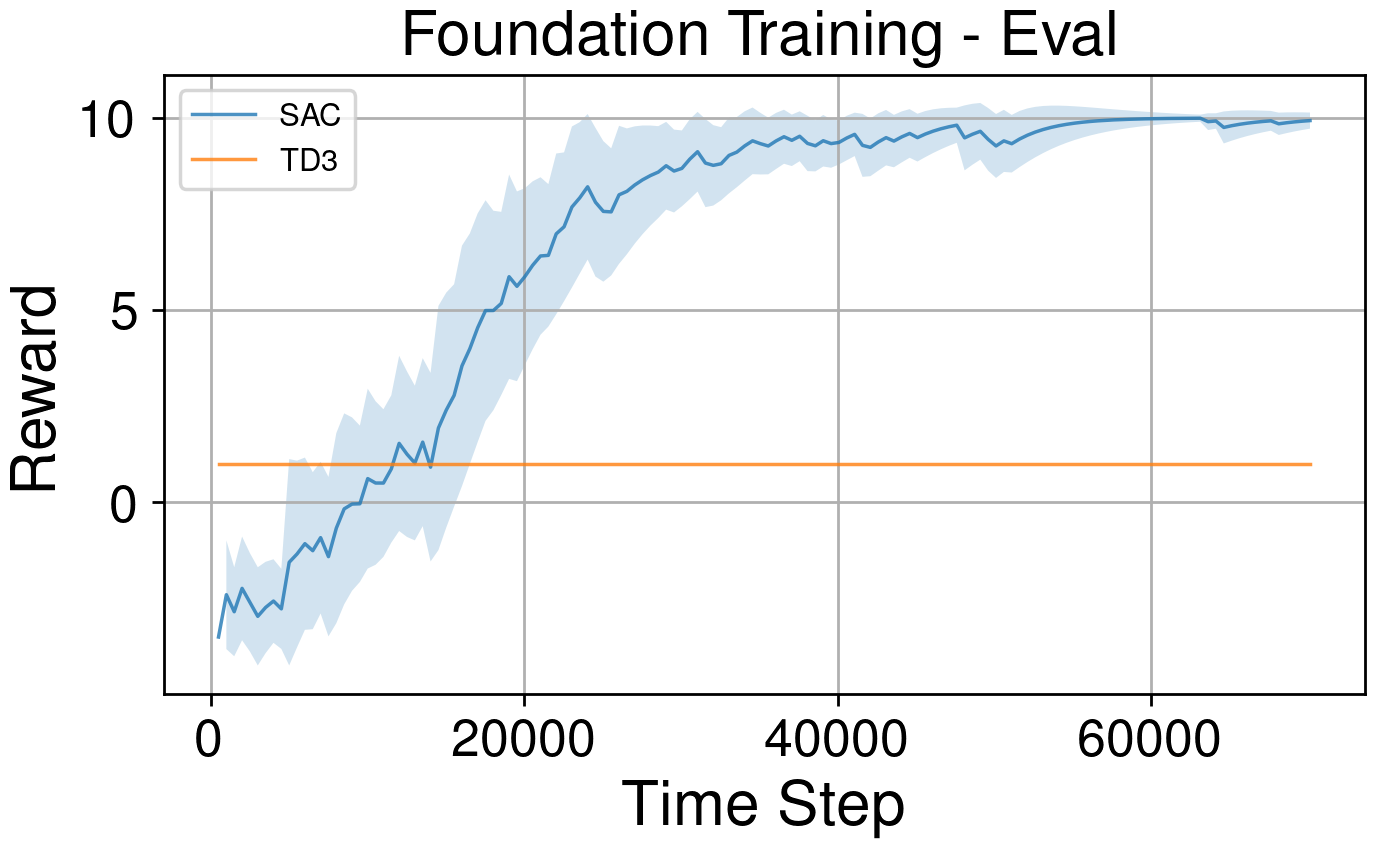
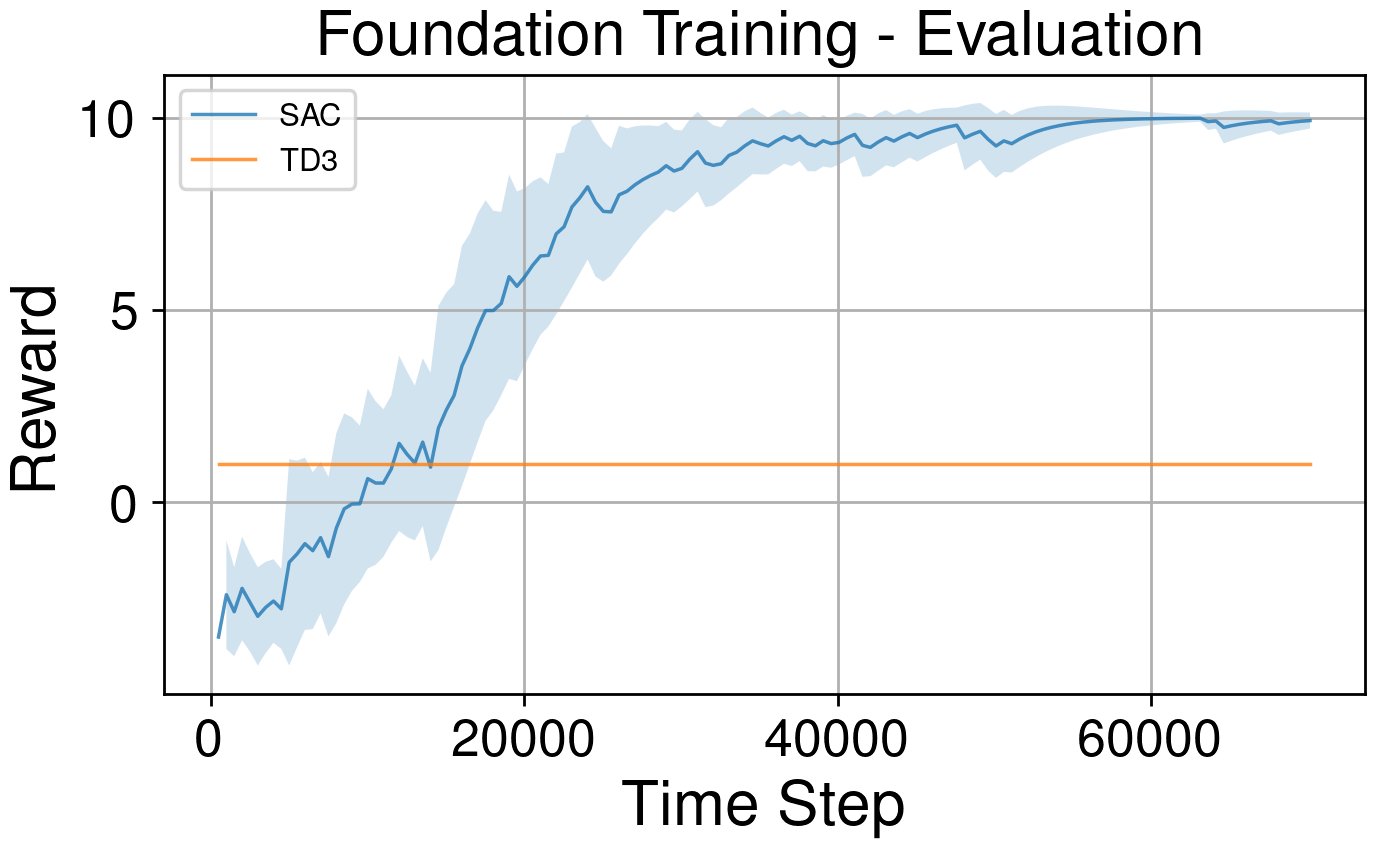
fixed plots labels

Changed region(s): [[0.2138, 0.0, 0.8858, 0.0919]]

diff --git a/report/plots/selfplay_plots.py b/report/plots/selfplay_plots.py
@@ -19,60 +19,41 @@ plt.rcParams.update(
 )
 
 
-def plot_data(ax, datasets, subplot_title, x_label, y_label, window):
-    for df, label in datasets:
-        df = df.sort_values(by="Step")
-        steps = df["Step"]
-        values = df["Value"]
+def plot_data(ax, df, label, window):
+    """Plot single dataset with optional EWM smoothing and band."""
+    df = df.sort_values(by="Step")
+    steps = df["Step"]
+    values = df["Value"]
 
-        if window > 1:
-            moving_avg = values.ewm(span=window).mean()
-            std_ewm = values.ewm(span=window).std()
-            lower_bound = moving_avg - std_ewm
-            upper_bound = moving_avg + std_ewm
-        else:
-            moving_avg = values
-            lower_bound = values
-            upper_bound = values
+    if window > 1:
+        moving_avg = values.ewm(span=window).mean()
+        std_ewm = values.ewm(span=window).std()
+        lower_bound = moving_avg - std_ewm
+        upper_bound = moving_avg + std_ewm
+        ax.fill_between(steps, lower_bound, upper_bound, alpha=0.2)
+    else:
+        moving_avg = values
 
-        ax.plot(steps, moving_avg, label=label, alpha=0.8, linewidth=1)
-        if window > 1:
-            ax.fill_between(steps, lower_bound, upper_bound, alpha=0.2)
+    ax.plot(steps, moving_avg, label=label, alpha=0.8, linewidth=1)
 
-    ax.set_title(subplot_title, fontsize=plt.rcParams["axes.titlesize"])
+
+def plot_all_data(sac_df, td3_df, title, x_label, y_label, output_file, window=10):
+    """Plot SAC and TD3 data in one figure."""
+    fig, ax = plt.subplots()
+
+    # Plot SAC
+    plot_data(ax, sac_df, "SAC", window)
+    # Plot TD3
+    plot_data(ax, td3_df, "TD3", window)
+
+    ax.set_title(title, fontsize=plt.rcParams["axes.titlesize"])
     ax.set_xlabel(x_label, fontsize=plt.rcParams["axes.labelsize"])
     ax.set_ylabel(y_label, fontsize=plt.rcParams["axes.labelsize"])
     ax.grid(True)
     ax.legend()
 
-
-def plot_all_data(
-    sac_eval,
-    sac_train,
-    td3_eval,
-    td3_train,
-    title,
-    x_label,
-    y_label,
-    output_file,
-    window=10,
-):
-    train_datasets = [(sac_train, "SAC Train"), (td3_train, "TD3 Train")]
-    eval_datasets = [(sac_eval, "SAC Eval"), (td3_eval, "TD3 Eval")]
-
-    # Plot training data in a separate figure
-    fig_train, ax_train = plt.subplots()
-    plot_data(ax_train, train_datasets, "Training", x_label, y_label, window)
-    ax_train.set_title("Training " + title, fontsize=plt.rcParams["axes.titlesize"])
-    plt.savefig(f"../images/{output_file}_train.png")
-    plt.close(fig_train)
-
-    # Plot evaluation data in a separate figure
-    fig_eval, ax_eval = plt.subplots()
-    plot_data(ax_eval, eval_datasets, "Evaluation", x_label, y_label, window)
-    ax_eval.set_title("Evaluation " + title, fontsize=plt.rcParams["axes.titlesize"])
-    plt.savefig(f"../images/{output_file}_eval.png")
-    plt.close(fig_eval)
+    plt.savefig(f"../images/{output_file}.png")
+    plt.close(fig)
 
 
 # Load CSV data
@@ -85,13 +66,23 @@ td3_selfplay_train_data = pd.read_csv(
     "data/train_td3_multi_2025-02-07_22-23-52_100.csv"
 )
 
+# Call plot_all_data twice to generate two separate images
 plot_all_data(
-    sac_selfplay_eval_data,
     sac_selfplay_train_data,
-    td3_selfplay_eval_data,
     td3_selfplay_train_data,
-    "Self-Play Training",
+    "Self-Play - Training",
     "Steps",
     "Reward",
-    "selfplay_rewards",
+    "selfplay_rewards_train",
+    window=10,
+)
+
+plot_all_data(
+    sac_selfplay_eval_data,
+    td3_selfplay_eval_data,
+    "Self-Play - Evaluation",
+    "Steps",
+    "Reward",
+    "selfplay_rewards_eval",
+    window=10,
 )

diff --git a/report/plots/foundation_plots.py b/report/plots/foundation_plots.py
@@ -130,7 +130,7 @@ td3_foundation_train_data = pd.DataFrame(
 plot_separate(
     sac_foundation_eval_data,
     td3_foundation_eval_data,
-    title="Foundation Training - Eval",
+    title="Foundation Training - Evaluation",
     x_label="Time Step",
     y_label="Reward",
     output_file="foundation_rewards_eval",
@@ -141,7 +141,7 @@ plot_separate(
 plot_separate(
     sac_foundation_train_data,
     td3_foundation_train_data,
-    title="Foundation Training - Train",
+    title="Foundation Training - Training",
     x_label="Time Step",
     y_label="Reward",
     output_file="foundation_rewards_train",
